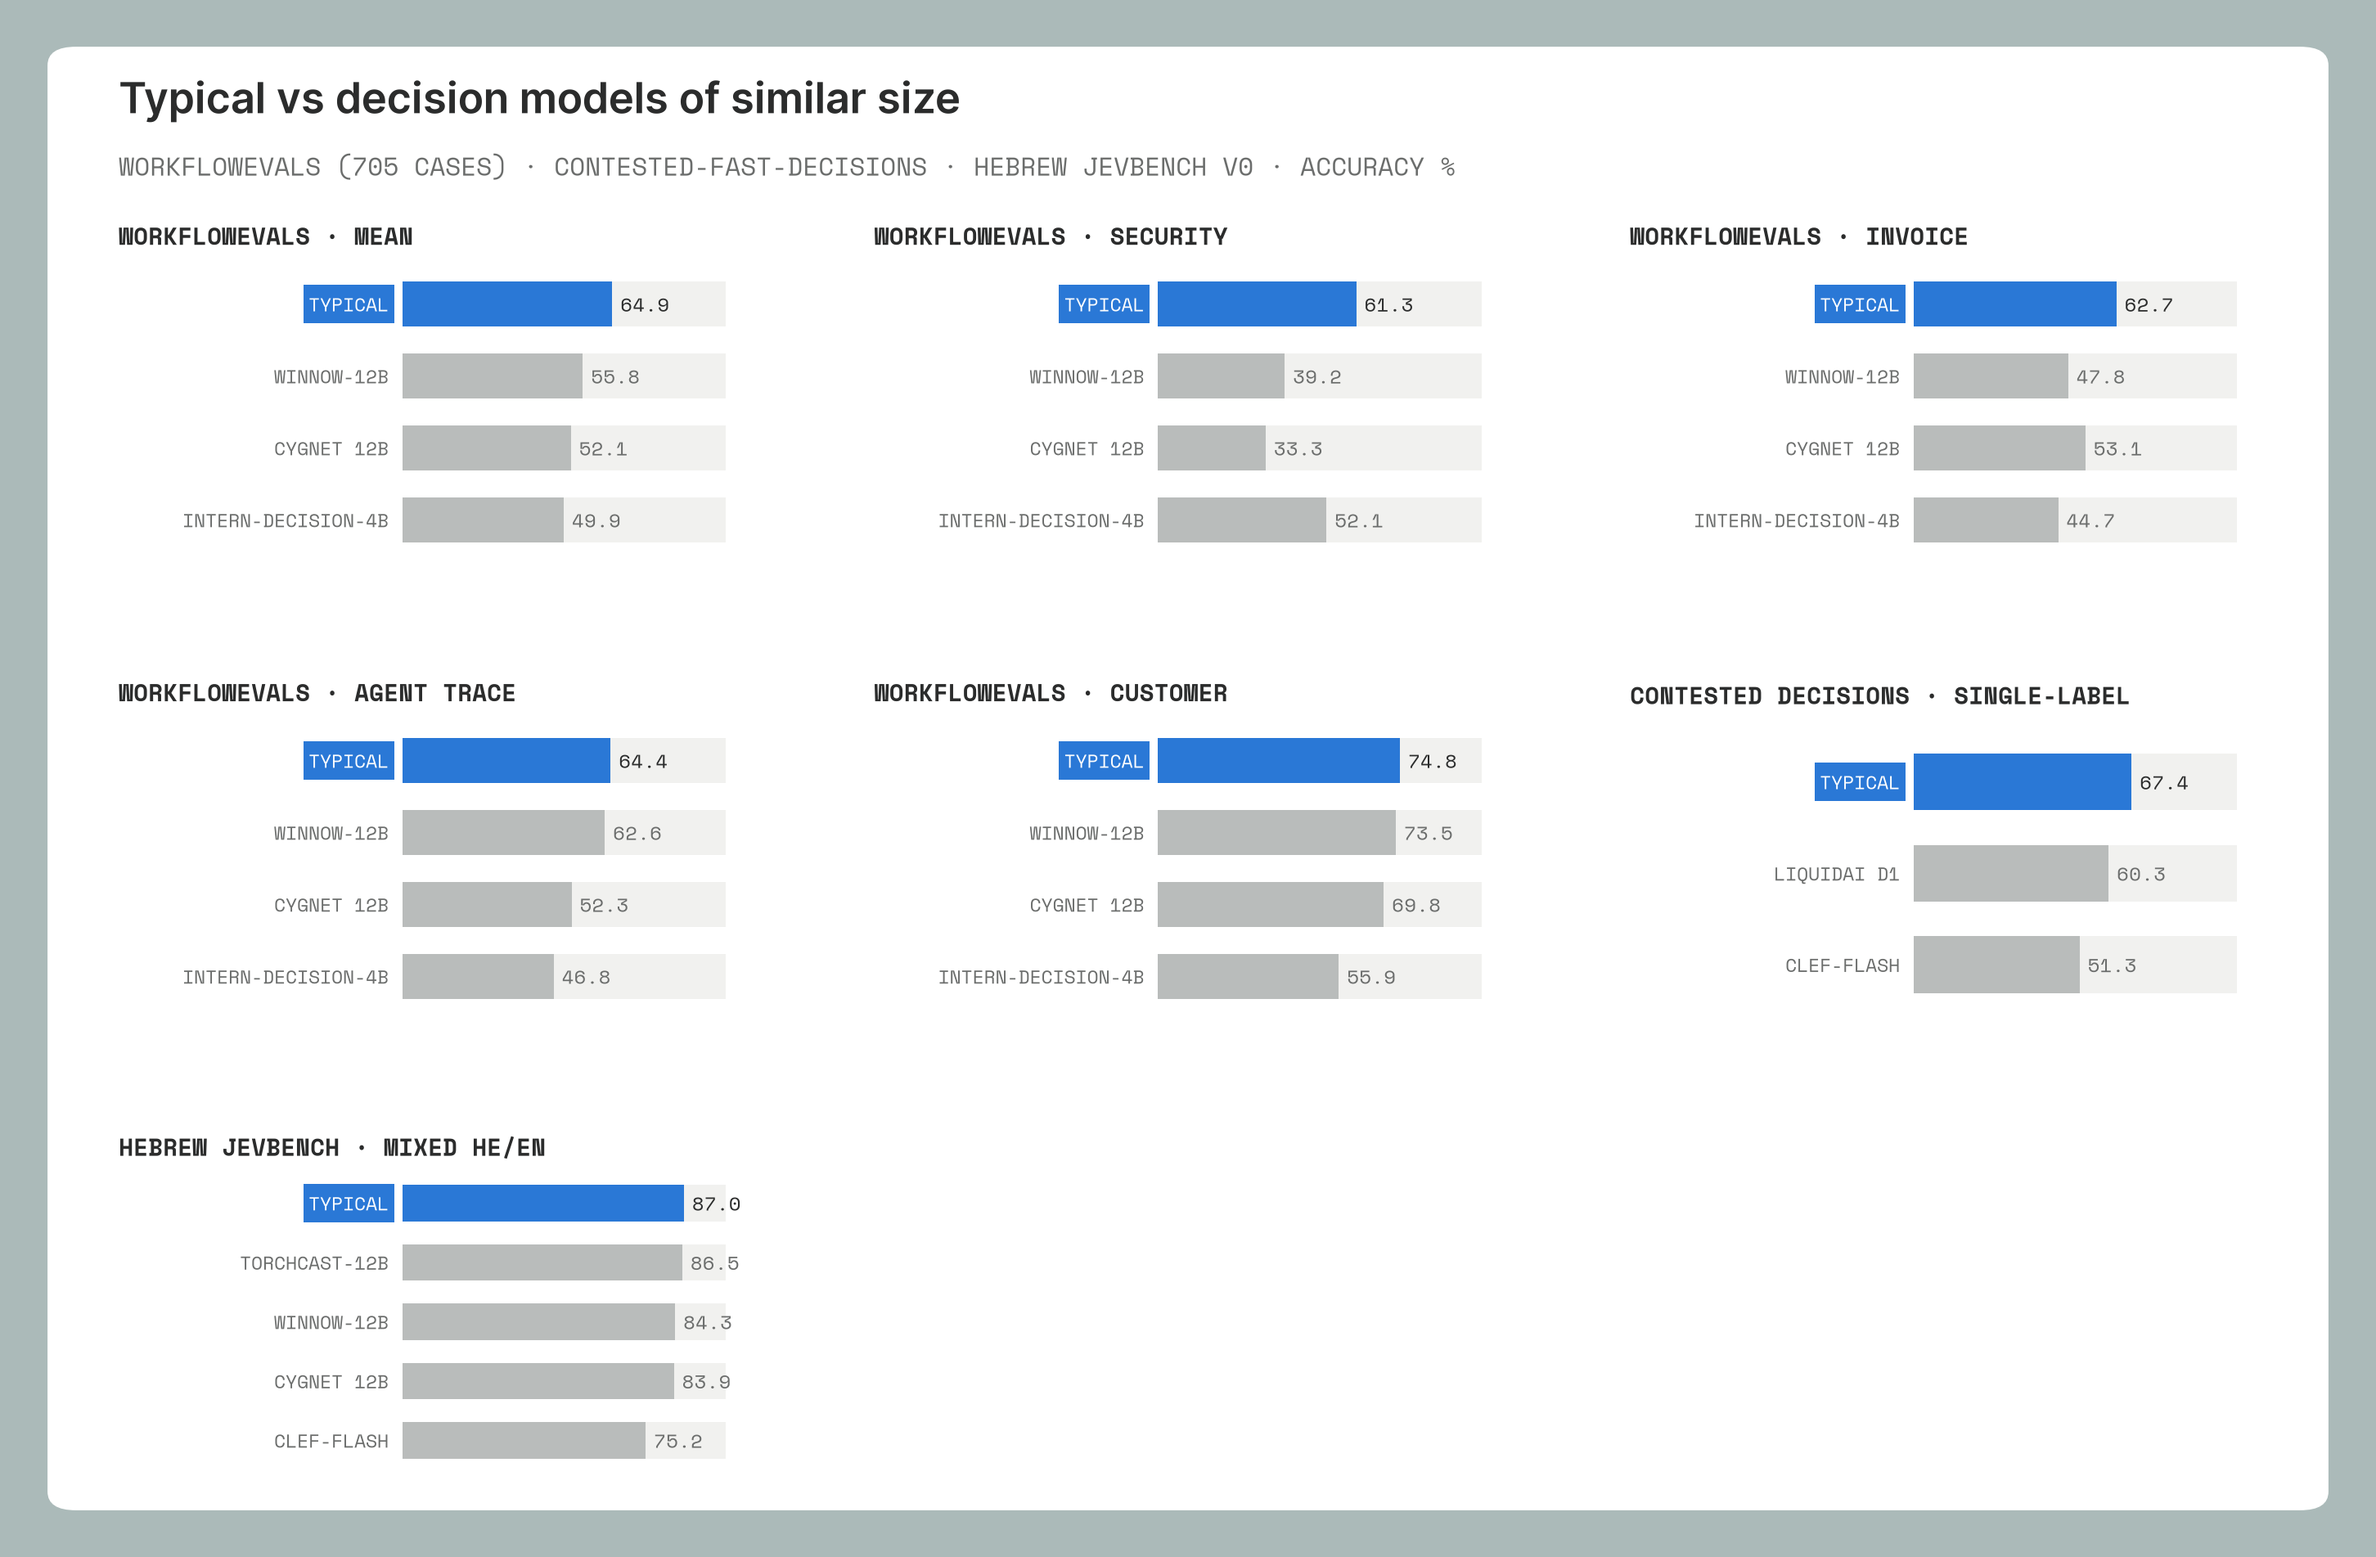
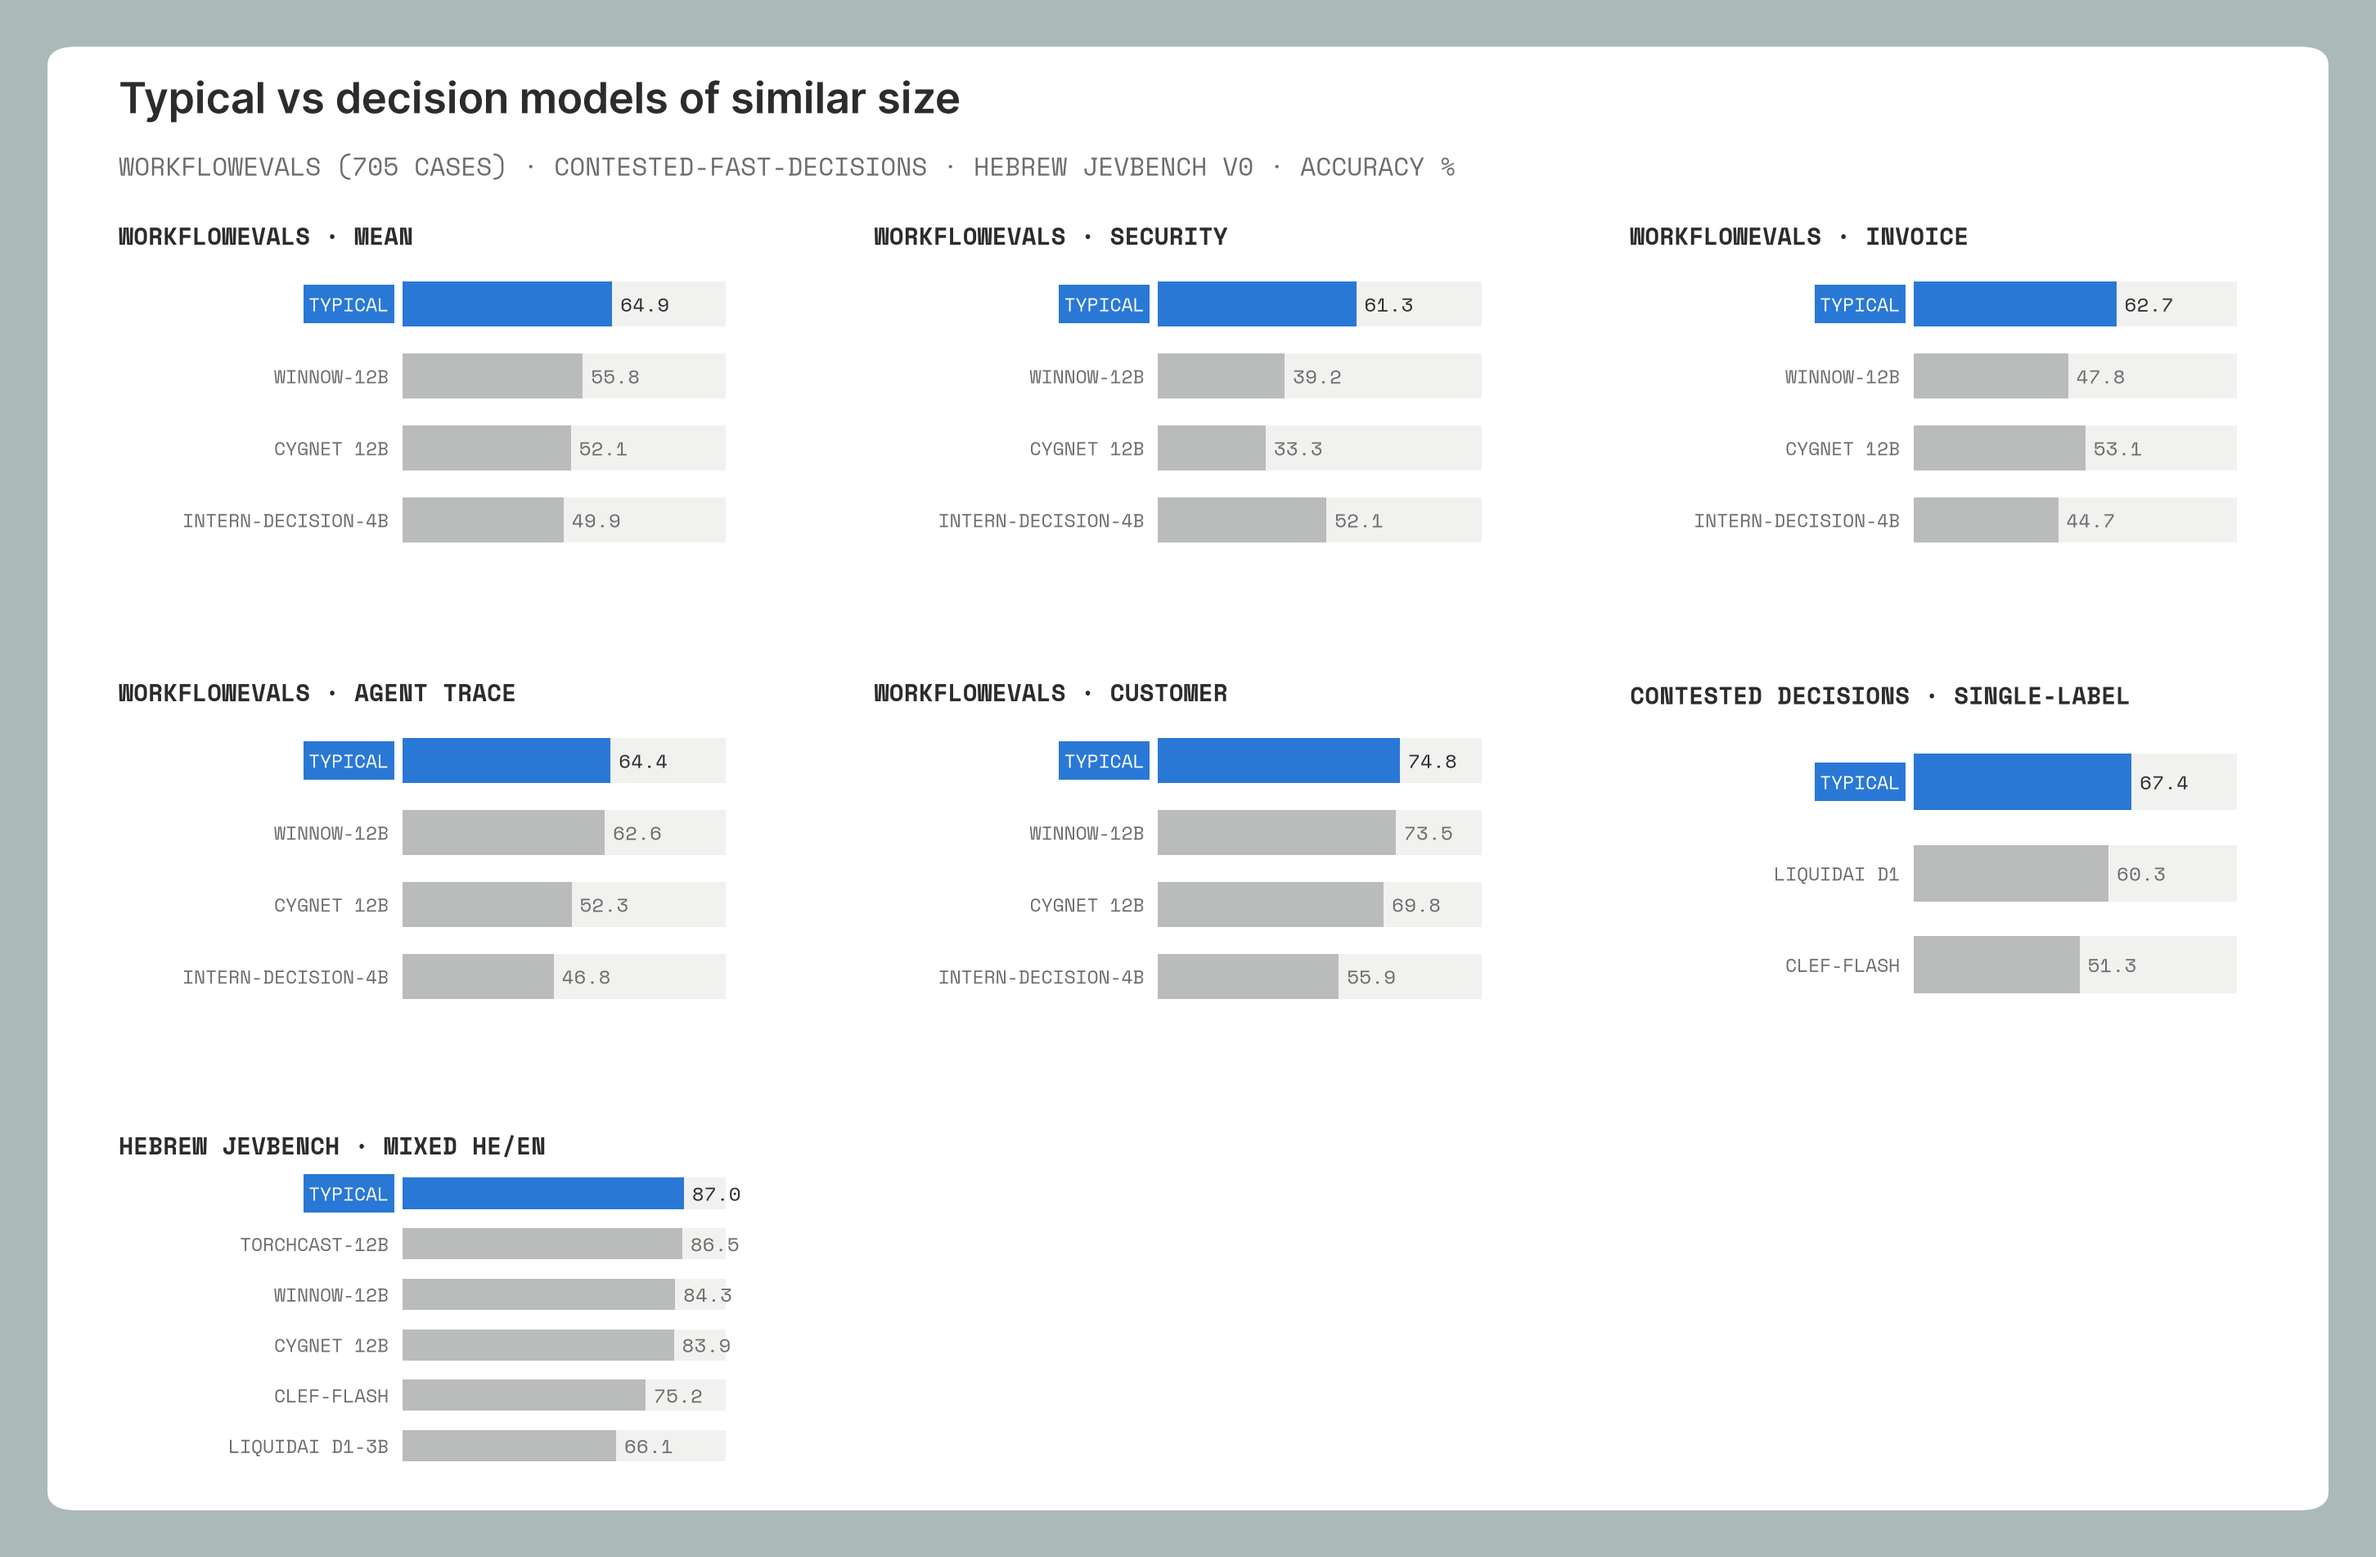
Showcase: add LiquidAI d1-3B to Hebrew JevBench chart; height scales with rows

Changed region(s): [[0.093, 0.7441, 0.3099, 0.9611], [0.093, 0.7131, 0.124, 0.7441]]

diff --git a/scripts/showcase_plots.py b/scripts/showcase_plots.py
@@ -36,7 +36,8 @@ BOARD = [
     ("HEBREW JEVBENCH · TRANSLATED", [("TYPICAL", 85.2, "ours"), ("TORCHCAST-12B", 86.5, "peer"),
                                       ("WINNOW-12B", 86.5, "peer"), ("CYGNET 12B", 83.9, "peer"), ("CLEF-FLASH", 77.4, "peer")]),
     ("HEBREW JEVBENCH · MIXED HE/EN", [("TYPICAL", 87.0, "ours"), ("TORCHCAST-12B", 86.5, "peer"),
-                                       ("WINNOW-12B", 84.3, "peer"), ("CYGNET 12B", 83.9, "peer"), ("CLEF-FLASH", 75.2, "peer")]),
+                                       ("WINNOW-12B", 84.3, "peer"), ("CYGNET 12B", 83.9, "peer"), ("CLEF-FLASH", 75.2, "peer"),
+          ("LIQUIDAI D1-3B", 66.1, "peer")]),
     ("HEBREW JEVBENCH · NATIVE", [("TYPICAL", 89.9, "ours"), ("TORCHCAST-12B", 89.9, "peer"),
                                   ("WINNOW-12B", 84.0, "peer"), ("CYGNET 12B", 88.2, "peer"), ("CLEF-FLASH", 78.2, "peer")]),
 ]
@@ -148,11 +149,12 @@ def tradeoff(t, name, jev=True):
 
 
 HEBREW = [("TYPICAL", 87.0, "ours"), ("TORCHCAST-12B", 86.5, "peer"), ("WINNOW-12B", 84.3, "peer"),
-          ("CYGNET 12B", 83.9, "peer"), ("CLEF-FLASH", 75.2, "peer")]
+          ("CYGNET 12B", 83.9, "peer"), ("CLEF-FLASH", 75.2, "peer"),
+          ("LIQUIDAI D1-3B", 66.1, "peer")]
 
 
 def hebrew(t, name):
-    fig = page(t, 10, 4.4)
+    fig = page(t, 10, 2.2 + .45 * len(HEBREW))
     header(fig, t, "Typical leads mixed Hebrew–English decisions",
            "HEBREW JEVBENCH V0 · HEBREW DOCUMENT, ENGLISH QUESTION · 230 ITEMS · ACCURACY %")
     bar_panel(body(fig), t, "", HEBREW, vmax=100, label_w=.25)
